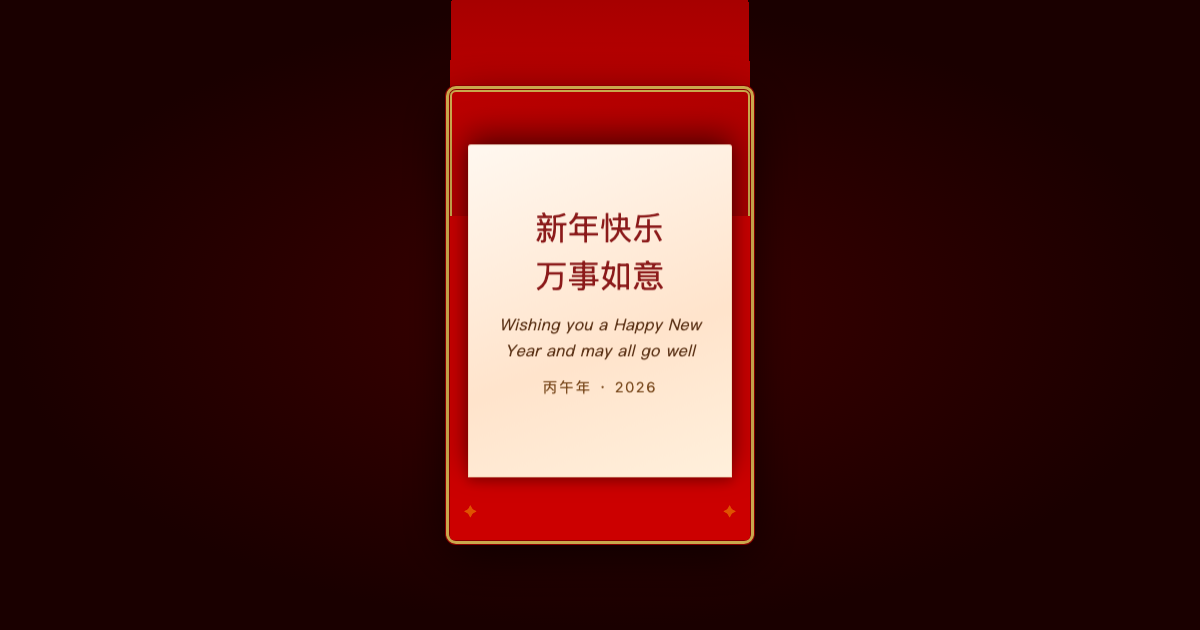
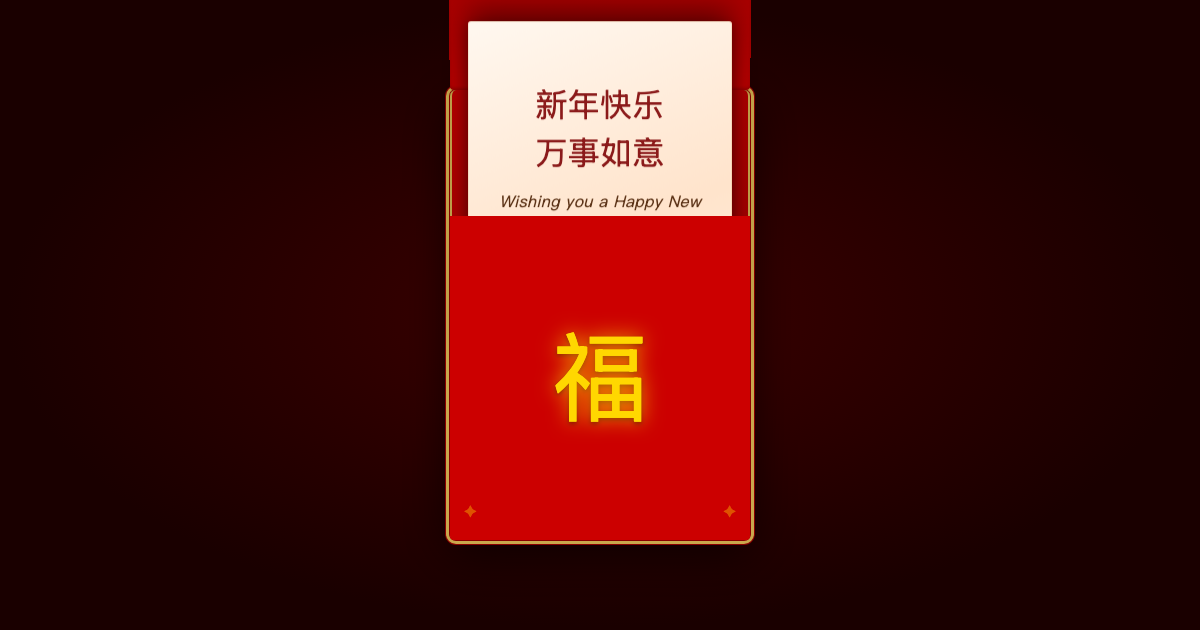
fix: card slides over flap via correct z-index stacking
Move perspective from .scene to .envelope and remove
transform-style: preserve-3d so sibling z-index ordering
is respected. Paper promoted to z-index 5 at t=1s now
correctly renders above flap (z-index 4), hiding the
rotated red panel as the card slides out.

Also reduce card-slide to translateY(-45%) so the full
greeting stays within the viewport.

Changed region(s): [[0.37, 0.3016, 0.6167, 0.7841], [0.37, 0.0, 0.6167, 0.2714]]

diff --git a/index.html b/index.html
@@ -35,7 +35,6 @@
       justify-content: center;
       width: 100vw;
       height: 100vh;
-      perspective: 800px;
     }
 
     /* ── Step 2: Envelope container ── */
@@ -46,7 +45,7 @@
       cursor: default;
       -webkit-user-select: none;
       user-select: none;
-      transform-style: preserve-3d;
+      perspective: 800px;
     }
 
     .envelope-back,
@@ -114,7 +113,6 @@
       border-radius: 4px 4px 50% 50% / 4px 4px 30px 30px;
       z-index: 4;
       transform-origin: top center;
-      transform-style: preserve-3d;
       transition: transform 2s cubic-bezier(0.4, 0, 0.2, 1);
       box-shadow: inset 0 2px 3px rgba(0,0,0,0.18);
     }
@@ -252,7 +250,7 @@
 
     @keyframes card-slide {
       from { transform: translateY(0); }
-      to   { transform: translateY(-62%); }
+      to   { transform: translateY(-45%); }
     }
 
     .envelope.is-open .envelope-paper {

diff --git a/scripts/generate-opened.ts b/scripts/generate-opened.ts
@@ -20,7 +20,7 @@ const filePath = join(import.meta.dir, "..", "index.html");
 await page.goto(`file://${filePath}`);
 await page.waitForTimeout(400);
 await page.locator(".seal").click();
-await page.waitForTimeout(1800);
+await page.waitForTimeout(3500);
 
 const buf = await page.screenshot({ type: "png" });
 const dest = join(import.meta.dir, "..", "preview-opened.png");
